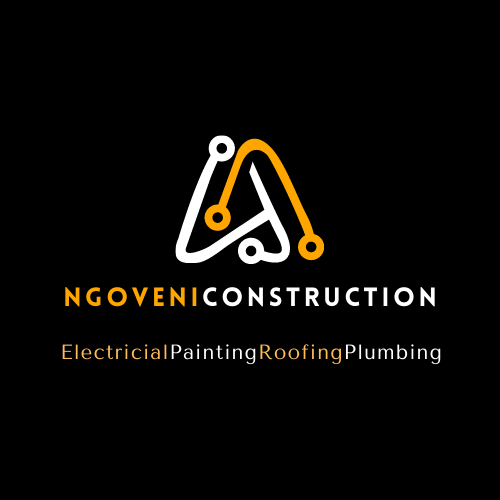
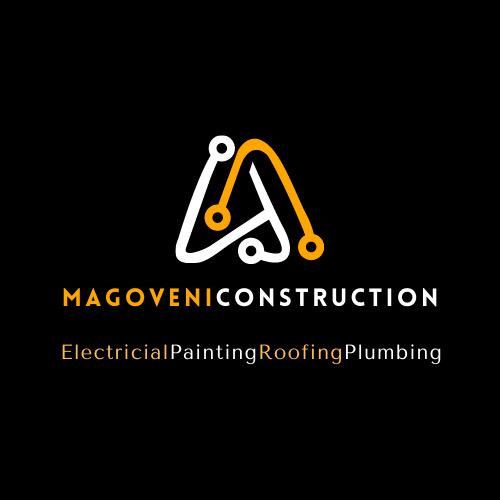
magoveni*

Changed region(s): [[0.12, 0.57, 0.9, 0.63]]

diff --git a/index.html b/index.html
@@ -9,9 +9,9 @@
     <!-- META OG IMAGE -->
     <meta name="image" property="og:image" content="https://www.canva.com/design/DAE2qUgUfn8/zWF0raz7DhyqlT_-ywIYAA/view?utm_content=DAE2qUgUfn8&utm_campaign=designshare&utm_medium=link&utm_source=publishsharelink">
     <!-- TITLE -->
-    <title>Ngoveni Construction || Electrician & General Builder</title>
+    <title>Magoveni Construction || Electrician & General Builder</title>
     <!-- META DESCRIPTION -->
-    <meta name="description" content="Ngoveni construction is a Limpopo based company specializing in electrical services, painting, roofing, plumbing and general building">
+    <meta name="description" content="Magoveni construction is a Limpopo based company specializing in electrical services, painting, roofing, plumbing and general building">
     <!-- KEYWORDS -->
     <meta name="keywords" content="electrician , house wiring, fault finding, electrical maintenance, gate motor installation, brick laying, plastering, tiling, renovations">
     <!-- STYLESHEET -->
@@ -39,7 +39,7 @@
         <header id="header"> 
             <div class="logo active-logo">
                     <a href="#">
-                        <h1>Ngoveni<span>Construction</span></h1>
+                        <h1>Magoveni<span>Construction</span></h1>
                     </a>
             </div>
             <div class="navigation">
@@ -171,7 +171,7 @@
                 </header>
                 <article class="about-article">
                     <p class="article-intro">
-                        <span>N</span>goveni Construction is a highly skilled and licensed construction company specializing in professional electrical services. 
+                        <span>M</span>agoveni Construction is a highly skilled and licensed construction company specializing in professional electrical services. 
                         Ngoveni operates in several provinces, mainly: Gauteng, Limpopo, North West and Mpumalanga. 
                     </p>
                     <p><strong>Professional, affordable & efficient electrical installations.</strong></p>

diff --git a/sass/_header.scss b/sass/_header.scss
@@ -50,7 +50,7 @@
             opacity: 1;
             a {
                 h1 {
-                    transform: scale(2) translateX(14vw) translateY(15vh);
+                    transform: scale(2) translateX(12vw) translateY(15vh);
 
                     @media (min-width: 1024px) {
                         transform: scale(3) translateX(13vw) translateY(10vh);

diff --git a/css/style.css b/css/style.css
@@ -88,7 +88,7 @@
   opacity: 1;
 }
 #header .logo.active-logo a h1 {
-  transform: scale(2) translateX(14vw) translateY(15vh);
+  transform: scale(2) translateX(12vw) translateY(15vh);
 }
 @media (min-width: 1024px) {
   #header .logo.active-logo a h1 {
